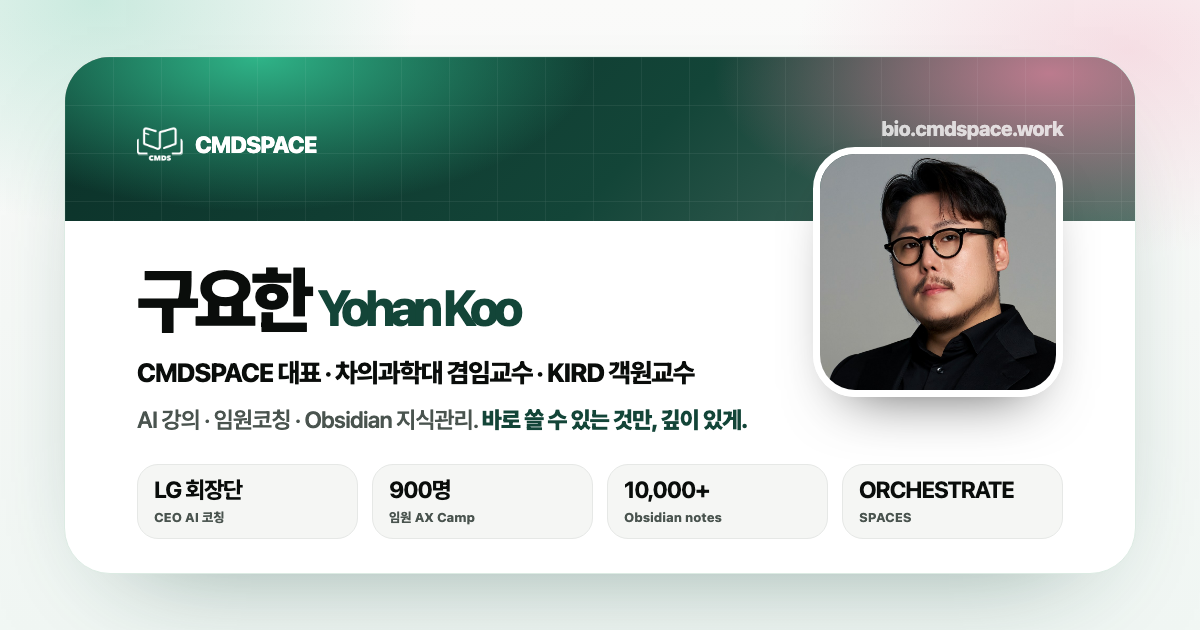
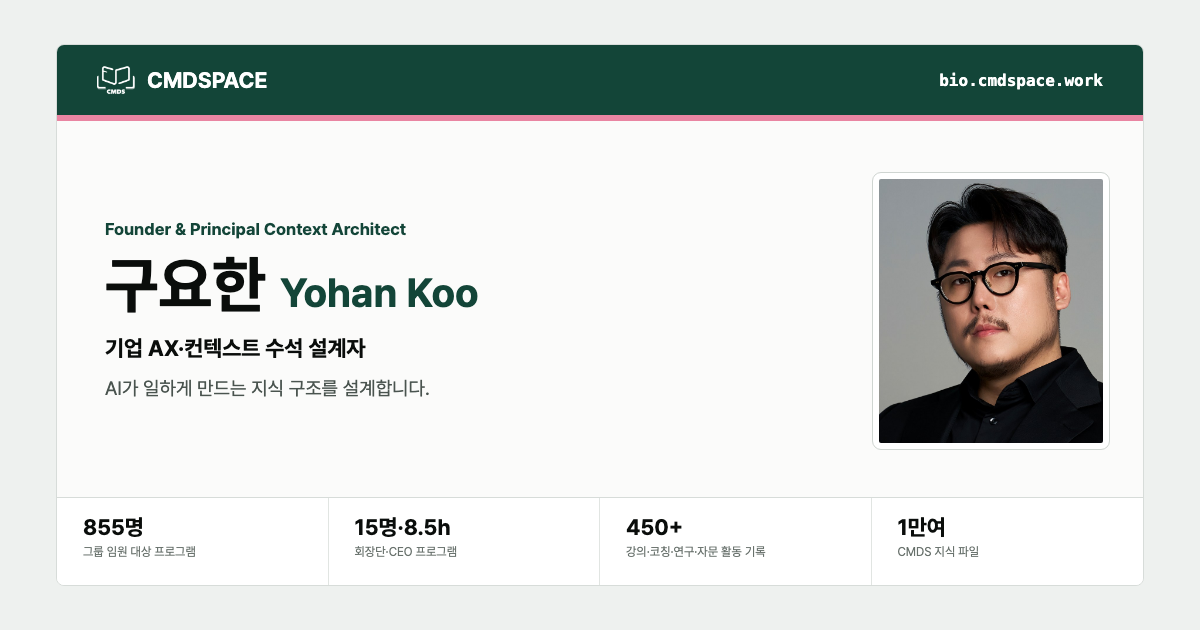
SNS 집계 갱신 2026-07-13 [자동]

diff --git a/index.html b/index.html
@@ -3,8 +3,8 @@
 <head>
     <meta charset="UTF-8">
     <meta name="viewport" content="width=device-width, initial-scale=1.0, viewport-fit=cover">
-    <title>구요한 (Yohan Koo) · CMDSPACE — AI · 지식관리 · 임원코칭</title>
-    <meta name="description" content="구요한 (Yohan Koo) — CMDSPACE 대표 · 차의과학대학교 겸임교수 · KIRD 객원교수. AI 강의, 임원코칭, Obsidian 지식관리와 LLM Wiki를 연결하는 모든 링크.">
+    <title>구요한 (Yohan Koo) · CMDSPACE — 기업 AX·컨텍스트 설계자</title>
+    <meta name="description" content="구요한 (Yohan Koo) — CMDSPACE 대표·수석 컨텍스트 설계자. 기업의 AI가 실제 업무에 정착하도록 지식·업무 흐름·사람을 함께 설계합니다.">
     <meta name="theme-color" content="#134538" media="(prefers-color-scheme: light)">
     <meta name="theme-color" content="#06080a" media="(prefers-color-scheme: dark)">
     <link rel="icon" type="image/png" href="/assets/cmds-logo-round.png">
@@ -27,7 +27,7 @@
     <meta property="og:type" content="profile">
     <meta property="og:site_name" content="구요한 · CMDSPACE">
     <meta property="og:title" content="구요한 (Yohan Koo) — CMDSPACE">
-    <meta property="og:description" content="AI 강의 · 임원코칭 · 지식관리. CMDSPACE, LLM Wiki, System Files, 강의 문의를 한 곳에.">
+    <meta property="og:description" content="기업 AX·컨텍스트 수석 설계자. AI가 일하게 만드는 지식 구조와 공개 자산을 한곳에.">
     <meta property="og:url" content="https://bio.cmdspace.work">
     <meta property="og:image" content="https://bio.cmdspace.work/assets/og-bio.png">
     <meta property="og:image:secure_url" content="https://bio.cmdspace.work/assets/og-bio.png">
@@ -38,7 +38,7 @@
     <meta property="og:locale" content="ko_KR">
     <meta name="twitter:card" content="summary_large_image">
     <meta name="twitter:title" content="구요한 (Yohan Koo) — CMDSPACE">
-    <meta name="twitter:description" content="AI 강의 · 임원코칭 · 지식관리. 모든 공개 링크를 한 곳에.">
+    <meta name="twitter:description" content="기업 AX·컨텍스트 수석 설계자. AI가 일하게 만드는 지식 구조와 공개 자산을 한곳에.">
     <meta name="twitter:image" content="https://bio.cmdspace.work/assets/og-bio.png">
     <meta name="twitter:image:alt" content="구요한 Yohan Koo · CMDSPACE bio card">
 
@@ -47,7 +47,7 @@
     <noscript><link rel="stylesheet" href="https://cdn.jsdelivr.net/gh/orioncactus/pretendard@v1.3.9/dist/web/variable/pretendardvariable-dynamic-subset.min.css"></noscript>
     <style>
         :root {
-            --font-sans: -apple-system, BlinkMacSystemFont, "SF Pro Text", "Pretendard Variable", "Pretendard", sans-serif;
+            --font-sans: "SF Pro Text", "SF Pro Display", "Pretendard Variable", "Pretendard", system-ui, sans-serif;
             --brand: #134538;
             --brand-bright: #22896a;
             --pink: #E985A2;
@@ -95,7 +95,7 @@
             color: var(--fg);
             background: var(--bg-elev);
             line-height: 1.5;
-            letter-spacing: -0.012em;
+            letter-spacing: 0;
             -webkit-font-smoothing: antialiased;
             transition: background .25s, color .25s;
         }
@@ -238,9 +238,9 @@
         .hero-brand img { width: 38px; height: 38px; object-fit: contain; }
         .hero-copy strong {
             display: block;
-            font-size: clamp(24px, 4.45vw, 30px);
+            font-size: 30px;
             line-height: .98;
-            letter-spacing: -0.055em;
+            letter-spacing: 0;
             text-transform: uppercase;
         }
         .hero-copy strong span {
@@ -254,7 +254,7 @@
             color: rgba(255,255,255,.76);
             font-size: 13.5px;
             font-weight: 600;
-            letter-spacing: -0.015em;
+            letter-spacing: 0;
         }
 
         .identity {
@@ -268,10 +268,10 @@
             align-items: center;
             justify-content: center;
             gap: 7px;
-            font-size: clamp(25px, 6vw, 32px);
+            font-size: 32px;
             font-weight: 800;
             line-height: 1.08;
-            letter-spacing: -0.045em;
+            letter-spacing: 0;
         }
         .name span { font-weight: 700; }
         .verified {
@@ -326,7 +326,7 @@
             color: var(--fg);
             font-size: 14.5px;
             font-weight: 800;
-            letter-spacing: -0.03em;
+            letter-spacing: 0;
             font-variant-numeric: tabular-nums;
         }
         .cred span {
@@ -354,7 +354,7 @@
             font-size: 27px;
             font-weight: 850;
             line-height: 1.05;
-            letter-spacing: -0.04em;
+            letter-spacing: 0;
             font-variant-numeric: tabular-nums;
         }
         .sns-total span {
@@ -432,7 +432,7 @@
             border-radius: 15px;
             font-size: 14px;
             font-weight: 800;
-            letter-spacing: -0.01em;
+            letter-spacing: 0;
             transition: transform .15s, background .15s, color .15s, border-color .15s;
         }
         .contact-cta {
@@ -464,7 +464,7 @@
         .section-head h2 {
             font-size: 17px;
             font-weight: 850;
-            letter-spacing: -0.03em;
+            letter-spacing: 0;
         }
         .section-head p {
             color: var(--fg-subtle);
@@ -568,7 +568,7 @@
             color: var(--accent-strong);
             font-size: 13px;
             font-weight: 900;
-            letter-spacing: -0.03em;
+            letter-spacing: 0;
         }
         .link-ico svg {
             width: 23px;
@@ -595,7 +595,7 @@
             color: var(--fg);
             font-size: 15.5px;
             font-weight: 820;
-            letter-spacing: -0.02em;
+            letter-spacing: 0;
         }
         .link-sub {
             display: block;
@@ -624,7 +624,7 @@
             color: var(--accent-strong);
             font-size: 10.8px;
             font-weight: 760;
-            letter-spacing: -0.01em;
+            letter-spacing: 0;
             line-height: 1;
         }
         [data-theme="dark"] .link-tag { color: var(--accent); }
@@ -767,7 +767,7 @@
         .focus h2 {
             font-size: 17px;
             font-weight: 850;
-            letter-spacing: -0.03em;
+            letter-spacing: 0;
         }
         .focus p {
             margin-top: 9px;
@@ -824,7 +824,7 @@
             .hero-brand img { width: 32px; height: 32px; }
             .hero-photo { top: 58px; right: 0; width: 122px; height: 122px; border-radius: 30px; }
             .hero-copy { left: 0; right: 0; top: 184px; bottom: auto; padding: 0; }
-            .hero-copy strong { font-size: clamp(24px, 7.3vw, 29px); line-height: 1.02; }
+            .hero-copy strong { font-size: 27px; line-height: 1.02; }
             .hero-copy .hero-subtitle { max-width: 17rem; margin-top: 12px; font-size: 13px; }
             .identity { padding: 24px 20px 8px; }
             .role { font-size: 13.7px; }
@@ -878,7 +878,7 @@
       "@type": "Person",
       "name": "구요한",
       "alternateName": ["Yohan Koo", "具耀翰"],
-      "jobTitle": ["Founder & CEO, CMDSPACE", "Adjunct Professor, CHA University", "Visiting Professor, KIRD"],
+      "jobTitle": ["Founder & Principal Context Architect, CMDSPACE", "Adjunct Professor, CHA University", "Visiting Professor, KIRD"],
       "affiliation": [
         {"@type": "Organization", "name": "CMDSPACE", "url": "https://cmdspace.work"},
         {"@type": "CollegeOrUniversity", "name": "CHA University"},
@@ -931,7 +931,7 @@
                     <img class="hero-photo" src="/assets/profile-yohan-headshot.jpg" alt="구요한 대표사진" data-alt-ko="구요한 대표사진" data-alt-en="Portrait of Yohan Koo" width="900" height="900">
                     <div class="hero-copy">
                         <strong lang="en"><span>COMMAND KNOWLEDGE</span><span>CONNECT IDEAS</span><span>ORCHESTRATE SPACES</span></strong>
-                        <span class="hero-subtitle" lang="ko" data-ko="AI 전환, 지식 시스템, 임원 코칭을 한곳에." data-en="AI transformation, knowledge systems, and executive coaching from CMDSPACE.">AI 전환, 지식 시스템, 임원 코칭을 한곳에.</span>
+                        <span class="hero-subtitle" lang="ko" data-ko="AI가 일하게 만드는 지식 구조를 설계합니다." data-en="I design the knowledge structures that make AI work.">AI가 일하게 만드는 지식 구조를 설계합니다.</span>
                     </div>
                 </div>
             </header>
@@ -940,28 +940,28 @@
                 <h1 class="name" id="profile-name">구요한 <span>Yohan Koo</span>
                     <svg class="verified" viewBox="0 0 24 24" fill="currentColor" role="img" aria-label="verified"><path d="M12 1l2.4 2.1 3.1-.5 1.3 2.9 2.9 1.3-.5 3.1L23 12l-2.3 2.6.5 3.1-2.9 1.3-1.3 2.9-3.1-.5L12 23l-2.4-2.1-3.1.5-1.3-2.9-2.9-1.3.5-3.1L1 12l2.3-2.6-.5-3.1 2.9-1.3L7 2.6l3.1.5L12 1z"/><path d="M10.6 14.6l-2.2-2.2-1.2 1.2 3.4 3.4 6-6-1.2-1.2-4.8 4.8z" fill="#fff"/></svg>
                 </h1>
-                <p class="role" data-ko="커맨드스페이스 대표 · 차의과학대학교 겸임교수 · KIRD 객원교수" data-en="Founder of CMDSPACE · Adjunct Professor at CHA University · KIRD Visiting Professor">커맨드스페이스 대표 · 차의과학대학교 겸임교수 · KIRD 객원교수</p>
-                <p class="lede" data-ko-html="생성형 AI, 임원코칭, Obsidian 지식관리 시스템을 현장으로 가져옵니다. <strong>바로 쓸 수 있는 것만, 깊이 있게.</strong>" data-en-html="I bring generative AI, executive coaching, and Obsidian-based knowledge systems into real work. <strong>Practical, deep, and ready to use.</strong>">생성형 AI, 임원코칭, Obsidian 지식관리 시스템을 현장으로 가져옵니다. <strong>바로 쓸 수 있는 것만, 깊이 있게.</strong></p>
+                <p class="role" data-ko="CMDSPACE 대표·수석 컨텍스트 설계자 · 차의과학대학교 겸임교수 · KIRD 객원교수" data-en="Founder &amp; Principal Context Architect, CMDSPACE · Adjunct Professor at CHA University · KIRD Visiting Professor">CMDSPACE 대표·수석 컨텍스트 설계자 · 차의과학대학교 겸임교수 · KIRD 객원교수</p>
+                <p class="lede" data-ko-html="임원 교육과 코칭으로 문제를 발견하고, 진단·부서 파일럿·조직 확산·지식운영체계로 연결합니다. <strong>연구하면서 가르치는 실천가.</strong>" data-en-html="I connect executive education and coaching to diagnosis, department pilots, organizational scale, and knowledge operations. <strong>A research-through-practice educator.</strong>">임원 교육과 코칭으로 문제를 발견하고, 진단·부서 파일럿·조직 확산·지식운영체계로 연결합니다. <strong>연구하면서 가르치는 실천가.</strong></p>
                 <div class="cred-list" aria-label="대표 활동 하이라이트" data-label-ko="대표 활동 하이라이트" data-label-en="Career highlights">
-                    <p class="cred"><strong data-ko="LG 회장단" data-en="LG Chairmen">LG 회장단</strong><span data-ko="그룹 코칭 · CEO 1:1 AI 코칭" data-en="Group coaching · CEO 1:1 AI coaching">그룹 코칭 · CEO 1:1 AI 코칭</span></p>
-                    <p class="cred"><strong data-ko="900명" data-en="900+">900명</strong><span data-ko="LG 그룹 임원 AX Camp 교육" data-en="LG Group executive AX Camp">LG 그룹 임원 AX Camp 교육</span></p>
-                    <p class="cred"><strong data-ko="450+" data-en="450+">450+</strong><span data-ko-html='누적 강의·코칭·자문 — 전체 이력은 <a href="https://cmdspace.work" target="_blank" rel="noopener">cmdspace.work</a>' data-en-html='Lectures, coaching &amp; advisory to date — full log on <a href="https://cmdspace.work" target="_blank" rel="noopener">cmdspace.work</a>'>누적 강의·코칭·자문 — 전체 이력은 <a href="https://cmdspace.work" target="_blank" rel="noopener">cmdspace.work</a></span></p>
-                    <p class="cred"><strong data-ko="10,000+" data-en="10,000+">10,000+</strong><span data-ko="Obsidian 노트 기반 CMDS 운영" data-en="Obsidian notes powering CMDS">Obsidian 노트 기반 CMDS 운영</span></p>
+                    <p class="cred"><strong data-ko="15명·8.5h" data-en="15 people·8.5h">15명·8.5h</strong><span data-ko="국내 대기업 회장단·CEO 프로그램" data-en="Chairmen and CEO program at a major Korean enterprise">국내 대기업 회장단·CEO 프로그램</span></p>
+                    <p class="cred"><strong data-ko="855명" data-en="855 people">855명</strong><span data-ko="그룹 임원 대상 AX 프로그램" data-en="Group-wide executive AX program">그룹 임원 대상 AX 프로그램</span></p>
+                    <p class="cred"><strong data-ko="450+" data-en="450+">450+</strong><span data-ko-html='강의·코칭·연구·자문 전체 활동 기록 — <a href="https://cmdspace.work" target="_blank" rel="noopener">cmdspace.work</a>' data-en-html='Total activity records across lectures, coaching, research, and advisory — <a href="https://cmdspace.work" target="_blank" rel="noopener">cmdspace.work</a>'>강의·코칭·연구·자문 전체 활동 기록 — <a href="https://cmdspace.work" target="_blank" rel="noopener">cmdspace.work</a></span></p>
+                    <p class="cred"><strong data-ko="1만여" data-en="About 10K">1만여</strong><span data-ko="CMDS로 운영하는 지식 파일" data-en="Knowledge files operated through CMDS">CMDS로 운영하는 지식 파일</span></p>
                     <p class="cred"><strong data-ko="2026–2028" data-en="2026–2028">2026–2028</strong><span data-ko="KIRD 객원교수 임기" data-en="KIRD Visiting Professor term">KIRD 객원교수 임기</span></p>
                 </div>
             </section>
 
             <div class="sns-total">
                 <strong id="snsTotal">17,000+</strong>
-                <span id="snsCaption" data-ko="SNS 팔로워·구독자 합계 · 2026-07-07 기준" data-en="Combined followers &amp; subscribers · as of 2026-07-07">SNS 팔로워·구독자 합계 · 2026-07-07 기준</span>
+                <span id="snsCaption" data-ko="SNS 팔로워·구독자 합계 · 2026-07-13 기준" data-en="Combined followers &amp; subscribers · as of 2026-07-13">SNS 팔로워·구독자 합계 · 2026-07-13 기준</span>
             </div>
             <nav class="socials" aria-label="소셜 링크" data-label-ko="소셜 링크" data-label-en="Social links">
                 <a class="social" href="https://www.linkedin.com/in/yohan-koo-a1baa3138/" target="_blank" rel="noopener" aria-label="LinkedIn · 팔로워 1,601" data-label-ko="LinkedIn · 팔로워 1,601" data-label-en="LinkedIn · 1,601 followers"><span class="social-ico"><svg viewBox="0 0 24 24" fill="currentColor" aria-hidden="true"><path d="M4.98 3.5a2.5 2.5 0 11-.02 5 2.5 2.5 0 01.02-5zM3 9h4v12H3zM9 9h3.8v1.7h.05c.53-1 1.83-2.05 3.77-2.05C20.4 8.65 21 11 21 14.1V21h-4v-6.1c0-1.46-.03-3.33-2.03-3.33-2.03 0-2.34 1.58-2.34 3.22V21H9z"/></svg></span><span class="social-count" data-sns="linkedin" aria-hidden="true">1,601</span></a>
                 <a class="social" href="https://x.com/YohanKoo" target="_blank" rel="noopener" aria-label="X @YohanKoo · 팔로워 428" data-label-ko="X @YohanKoo · 팔로워 428" data-label-en="X @YohanKoo · 428 followers"><span class="social-ico"><svg viewBox="0 0 24 24" fill="currentColor" aria-hidden="true"><path d="M18.9 2H22l-7.1 8.1L23 22h-6.6l-5.2-6.8L5.3 22H2.2l7.6-8.7L1.5 2h6.8l4.7 6.2L18.9 2zm-1.2 18h1.8L7.4 3.9H5.5L17.7 20z"/></svg></span><span class="social-count" data-sns="x" aria-hidden="true">428</span></a>
-                <a class="social" href="https://www.threads.com/@cmds_pace" target="_blank" rel="noopener" aria-label="Threads @cmds_pace · 팔로워 2.5K" data-label-ko="Threads @cmds_pace · 팔로워 2.5K" data-label-en="Threads @cmds_pace · 2.5K followers"><span class="social-ico"><svg viewBox="0 0 24 24" fill="currentColor" aria-hidden="true"><path d="M12.186 24h-.007c-3.581-.024-6.334-1.205-8.184-3.509C2.35 18.44 1.5 15.586 1.472 12.01v-.017c.03-3.579.879-6.43 2.525-8.482C5.845 1.205 8.6.024 12.18 0h.014c2.746.02 5.043.725 6.826 2.098 1.677 1.29 2.858 3.13 3.509 5.467l-2.04.569c-1.104-3.96-3.898-5.984-8.304-6.015-2.91.022-5.11.936-6.54 2.717C4.307 6.504 3.616 8.914 3.589 12c.027 3.086.718 5.496 2.057 7.164 1.43 1.783 3.631 2.698 6.54 2.717 2.623-.02 4.358-.631 5.8-2.045 1.647-1.613 1.618-3.593 1.09-4.798-.31-.71-.873-1.3-1.634-1.75-.192 1.352-.622 2.446-1.284 3.272-.886 1.102-2.14 1.704-3.73 1.79-1.202.065-2.361-.218-3.259-.801-1.063-.689-1.685-1.74-1.752-2.964-.065-1.19.408-2.285 1.33-3.082.88-.76 2.119-1.207 3.583-1.291a13.853 13.853 0 0 1 3.02.142c-.126-.742-.375-1.332-.75-1.757-.513-.586-1.308-.883-2.359-.89h-.029c-.844 0-1.992.232-2.721 1.32L7.734 7.847c.98-1.454 2.568-2.256 4.478-2.256h.044c3.194.02 5.097 1.975 5.287 5.388.108.046.216.094.321.142 1.49.7 2.58 1.761 3.154 3.07.797 1.82.871 4.79-1.548 7.158-1.85 1.81-4.094 2.628-7.277 2.65Zm1.003-11.69c-.242 0-.487.007-.739.021-1.836.103-2.98.946-2.916 2.143.067 1.256 1.452 1.839 2.784 1.767 1.224-.065 2.818-.543 3.086-3.71a10.5 10.5 0 0 0-2.215-.221z"/></svg></span><span class="social-count" data-sns="threads" aria-hidden="true">2.5K</span></a>
-                <a class="social" href="https://www.instagram.com/cmds_pace/" target="_blank" rel="noopener" aria-label="Instagram @cmds_pace · 팔로워 484" data-label-ko="Instagram @cmds_pace · 팔로워 484" data-label-en="Instagram @cmds_pace · 484 followers"><span class="social-ico"><svg viewBox="0 0 24 24" fill="currentColor" aria-hidden="true"><path d="M12 2.2c3.2 0 3.6 0 4.9.07 3.3.15 4.8 1.7 5 5 .06 1.3.07 1.6.07 4.8s0 3.5-.07 4.8c-.15 3.3-1.7 4.8-5 5-1.3.06-1.6.07-4.9.07s-3.6 0-4.9-.07c-3.3-.15-4.8-1.7-5-5C2.04 15.5 2 15.2 2 12s0-3.5.07-4.8c.15-3.3 1.7-4.8 5-5C8.4 2.2 8.8 2.2 12 2.2zm0 1.8c-3.1 0-3.5 0-4.7.07-2.4.1-3.3 1-3.4 3.4C3.8 8.7 3.8 9 3.8 12s0 3.3.07 4.5c.1 2.4 1 3.3 3.4 3.4 1.2.06 1.6.07 4.7.07s3.5 0 4.7-.07c2.4-.1 3.3-1 3.4-3.4.06-1.2.07-1.5.07-4.5s0-3.3-.07-4.5c-.1-2.4-1-3.3-3.4-3.4C15.5 4 15.1 4 12 4zm0 3.1a4.9 4.9 0 110 9.8 4.9 4.9 0 010-9.8zm0 1.8a3.1 3.1 0 100 6.2 3.1 3.1 0 000-6.2zm5-2.4a1.15 1.15 0 110 2.3 1.15 1.15 0 010-2.3z"/></svg></span><span class="social-count" data-sns="instagram" aria-hidden="true">484</span></a>
+                <a class="social" href="https://www.threads.com/@cmds_pace" target="_blank" rel="noopener" aria-label="Threads @cmds_pace · 팔로워 2.6K" data-label-ko="Threads @cmds_pace · 팔로워 2.6K" data-label-en="Threads @cmds_pace · 2.6K followers"><span class="social-ico"><svg viewBox="0 0 24 24" fill="currentColor" aria-hidden="true"><path d="M12.186 24h-.007c-3.581-.024-6.334-1.205-8.184-3.509C2.35 18.44 1.5 15.586 1.472 12.01v-.017c.03-3.579.879-6.43 2.525-8.482C5.845 1.205 8.6.024 12.18 0h.014c2.746.02 5.043.725 6.826 2.098 1.677 1.29 2.858 3.13 3.509 5.467l-2.04.569c-1.104-3.96-3.898-5.984-8.304-6.015-2.91.022-5.11.936-6.54 2.717C4.307 6.504 3.616 8.914 3.589 12c.027 3.086.718 5.496 2.057 7.164 1.43 1.783 3.631 2.698 6.54 2.717 2.623-.02 4.358-.631 5.8-2.045 1.647-1.613 1.618-3.593 1.09-4.798-.31-.71-.873-1.3-1.634-1.75-.192 1.352-.622 2.446-1.284 3.272-.886 1.102-2.14 1.704-3.73 1.79-1.202.065-2.361-.218-3.259-.801-1.063-.689-1.685-1.74-1.752-2.964-.065-1.19.408-2.285 1.33-3.082.88-.76 2.119-1.207 3.583-1.291a13.853 13.853 0 0 1 3.02.142c-.126-.742-.375-1.332-.75-1.757-.513-.586-1.308-.883-2.359-.89h-.029c-.844 0-1.992.232-2.721 1.32L7.734 7.847c.98-1.454 2.568-2.256 4.478-2.256h.044c3.194.02 5.097 1.975 5.287 5.388.108.046.216.094.321.142 1.49.7 2.58 1.761 3.154 3.07.797 1.82.871 4.79-1.548 7.158-1.85 1.81-4.094 2.628-7.277 2.65Zm1.003-11.69c-.242 0-.487.007-.739.021-1.836.103-2.98.946-2.916 2.143.067 1.256 1.452 1.839 2.784 1.767 1.224-.065 2.818-.543 3.086-3.71a10.5 10.5 0 0 0-2.215-.221z"/></svg></span><span class="social-count" data-sns="threads" aria-hidden="true">2.6K</span></a>
+                <a class="social" href="https://www.instagram.com/cmds_pace/" target="_blank" rel="noopener" aria-label="Instagram @cmds_pace · 팔로워 486" data-label-ko="Instagram @cmds_pace · 팔로워 486" data-label-en="Instagram @cmds_pace · 486 followers"><span class="social-ico"><svg viewBox="0 0 24 24" fill="currentColor" aria-hidden="true"><path d="M12 2.2c3.2 0 3.6 0 4.9.07 3.3.15 4.8 1.7 5 5 .06 1.3.07 1.6.07 4.8s0 3.5-.07 4.8c-.15 3.3-1.7 4.8-5 5-1.3.06-1.6.07-4.9.07s-3.6 0-4.9-.07c-3.3-.15-4.8-1.7-5-5C2.04 15.5 2 15.2 2 12s0-3.5.07-4.8c.15-3.3 1.7-4.8 5-5C8.4 2.2 8.8 2.2 12 2.2zm0 1.8c-3.1 0-3.5 0-4.7.07-2.4.1-3.3 1-3.4 3.4C3.8 8.7 3.8 9 3.8 12s0 3.3.07 4.5c.1 2.4 1 3.3 3.4 3.4 1.2.06 1.6.07 4.7.07s3.5 0 4.7-.07c2.4-.1 3.3-1 3.4-3.4.06-1.2.07-1.5.07-4.5s0-3.3-.07-4.5c-.1-2.4-1-3.3-3.4-3.4C15.5 4 15.1 4 12 4zm0 3.1a4.9 4.9 0 110 9.8 4.9 4.9 0 010-9.8zm0 1.8a3.1 3.1 0 100 6.2 3.1 3.1 0 000-6.2zm5-2.4a1.15 1.15 0 110 2.3 1.15 1.15 0 010-2.3z"/></svg></span><span class="social-count" data-sns="instagram" aria-hidden="true">486</span></a>
                 <a class="social" href="https://www.youtube.com/@cmdspace" target="_blank" rel="noopener" aria-label="YouTube @cmdspace · 구독자 12.6K" data-label-ko="YouTube @cmdspace · 구독자 12.6K" data-label-en="YouTube @cmdspace · 12.6K subscribers"><span class="social-ico"><svg viewBox="0 0 24 24" fill="currentColor" aria-hidden="true"><path d="M23 12s0-3.2-.4-4.7c-.2-.9-.9-1.5-1.7-1.7C19.4 5.2 12 5.2 12 5.2s-7.4 0-8.9.4c-.8.2-1.5.8-1.7 1.7C1 8.8 1 12 1 12s0 3.2.4 4.7c.2.9.9 1.5 1.7 1.7 1.5.4 8.9.4 8.9.4s7.4 0 8.9-.4c.8-.2 1.5-.8 1.7-1.7.4-1.5.4-4.7.4-4.7zM9.8 15.3V8.7l5.7 3.3-5.7 3.3z"/></svg></span><span class="social-count" data-sns="youtube" aria-hidden="true">12.6K</span></a>
-                <a class="social" href="https://github.com/johnfkoo951" target="_blank" rel="noopener" aria-label="GitHub johnfkoo951 · 팔로워 35" data-label-ko="GitHub johnfkoo951 · 팔로워 35" data-label-en="GitHub johnfkoo951 · 35 followers"><span class="social-ico"><svg viewBox="0 0 24 24" fill="currentColor" aria-hidden="true"><path d="M12 .5C5.7.5.5 5.7.5 12c0 5.1 3.3 9.4 7.8 10.9.6.1.8-.2.8-.5v-1.8c-3.2.7-3.9-1.5-3.9-1.5-.5-1.3-1.3-1.7-1.3-1.7-1.1-.7.1-.7.1-.7 1.2.1 1.8 1.2 1.8 1.2 1 1.8 2.8 1.3 3.5 1 .1-.8.4-1.3.7-1.6-2.6-.3-5.3-1.3-5.3-5.7 0-1.3.4-2.3 1.2-3.1-.1-.3-.5-1.5.1-3.1 0 0 1-.3 3.2 1.2a11 11 0 015.8 0c2.2-1.5 3.2-1.2 3.2-1.2.6 1.6.2 2.8.1 3.1.8.8 1.2 1.8 1.2 3.1 0 4.4-2.7 5.4-5.3 5.7.4.4.8 1.1.8 2.2v3.3c0 .3.2.6.8.5 4.5-1.5 7.8-5.8 7.8-10.9C23.5 5.7 18.3.5 12 .5z"/></svg></span><span class="social-count" data-sns="github" aria-hidden="true">35</span></a>
+                <a class="social" href="https://github.com/johnfkoo951" target="_blank" rel="noopener" aria-label="GitHub johnfkoo951 · 팔로워 38" data-label-ko="GitHub johnfkoo951 · 팔로워 38" data-label-en="GitHub johnfkoo951 · 38 followers"><span class="social-ico"><svg viewBox="0 0 24 24" fill="currentColor" aria-hidden="true"><path d="M12 .5C5.7.5.5 5.7.5 12c0 5.1 3.3 9.4 7.8 10.9.6.1.8-.2.8-.5v-1.8c-3.2.7-3.9-1.5-3.9-1.5-.5-1.3-1.3-1.7-1.3-1.7-1.1-.7.1-.7.1-.7 1.2.1 1.8 1.2 1.8 1.2 1 1.8 2.8 1.3 3.5 1 .1-.8.4-1.3.7-1.6-2.6-.3-5.3-1.3-5.3-5.7 0-1.3.4-2.3 1.2-3.1-.1-.3-.5-1.5.1-3.1 0 0 1-.3 3.2 1.2a11 11 0 015.8 0c2.2-1.5 3.2-1.2 3.2-1.2.6 1.6.2 2.8.1 3.1.8.8 1.2 1.8 1.2 3.1 0 4.4-2.7 5.4-5.3 5.7.4.4.8 1.1.8 2.2v3.3c0 .3.2.6.8.5 4.5-1.5 7.8-5.8 7.8-10.9C23.5 5.7 18.3.5 12 .5z"/></svg></span><span class="social-count" data-sns="github" aria-hidden="true">38</span></a>
                 <a class="social" href="mailto:johnfkoo951@gmail.com" aria-label="이메일 보내기" data-label-ko="이메일 보내기" data-label-en="Send email"><span class="social-ico"><svg viewBox="0 0 24 24" fill="none" stroke="currentColor" stroke-width="2" stroke-linecap="round" stroke-linejoin="round" aria-hidden="true"><rect x="3" y="5" width="18" height="14" rx="2"/><path d="M3 7l9 6 9-6"/></svg></span><span class="social-count" data-sns="email" aria-hidden="true"></span></a>
             </nav>
 
@@ -973,21 +973,26 @@
             <section aria-labelledby="links-title" id="links">
                 <div class="section-head">
                     <h2 id="links-title" data-ko="커맨드스페이스 게이트웨이" data-en="CMDSPACE Gateway">커맨드스페이스 게이트웨이</h2>
-                    <p id="filterStatus" aria-live="polite">전체 9개 링크</p>
+                    <p id="filterStatus" aria-live="polite">전체 10개 링크</p>
                 </div>
-                <p class="section-desc" data-ko="제가 하는 일과 만든 것들이 궁금하다면 여기서 시작하세요 — 강의와 코칭, 직접 쓴 책, 직접 만든 앱, 공개 지식 시스템, 함께하는 커뮤니티로 이어지는 공식 관문입니다." data-en="Curious what I do and what I build? Start here — the official gateway to my lectures &amp; coaching, the book I wrote, the apps I built, public knowledge systems, and the communities I run.">제가 하는 일과 만든 것들이 궁금하다면 여기서 시작하세요 — 강의와 코칭, 직접 쓴 책, 직접 만든 앱, 공개 지식 시스템, 함께하는 커뮤니티로 이어지는 공식 관문입니다.</p>
-                <p class="updated-chip"><span data-ko="2026-07-07 업데이트 · cmdspace.work와 상시 동기화" data-en="Updated 2026-07-07 · kept in sync with cmdspace.work">2026-07-07 업데이트 · cmdspace.work와 상시 동기화</span></p>
+                <p class="section-desc" data-ko="기업 AX 프로그램과 포트폴리오, 공개 교육, 저서·앱·지식 시스템·커뮤니티로 이어지는 공식 관문입니다." data-en="The official gateway to enterprise AX programs and portfolio, public education, books, apps, knowledge systems, and communities.">기업 AX 프로그램과 포트폴리오, 공개 교육, 저서·앱·지식 시스템·커뮤니티로 이어지는 공식 관문입니다.</p>
+                <p class="updated-chip"><span data-ko="2026-07-13 업데이트 · cmdspace.work와 상시 동기화" data-en="Updated 2026-07-13 · kept in sync with cmdspace.work">2026-07-13 업데이트 · cmdspace.work와 상시 동기화</span></p>
                 <div class="filterbar" role="group" aria-label="링크 필터" data-label-ko="링크 필터" data-label-en="Link filters">
                     <button class="filter-btn" type="button" data-filter="all" aria-pressed="true" data-ko="전체" data-en="All">전체</button>
-                    <button class="filter-btn" type="button" data-filter="work" aria-pressed="false" data-ko="강의·코칭" data-en="Work">강의·코칭</button>
+                    <button class="filter-btn" type="button" data-filter="work" aria-pressed="false" data-ko="기업 AX·교육" data-en="Enterprise AX">기업 AX·교육</button>
                     <button class="filter-btn" type="button" data-filter="knowledge" aria-pressed="false" data-ko="지식 시스템" data-en="Knowledge">지식 시스템</button>
                     <button class="filter-btn" type="button" data-filter="profile" aria-pressed="false" data-ko="콘텐츠·커뮤니티" data-en="Content · Community">콘텐츠·커뮤니티</button>
                 </div>
 
                 <div class="links">
-                    <a class="link" href="https://cmdspace.work" target="_blank" rel="noopener" data-tags="work knowledge" data-title-ko="CMDSPACE" data-title-en="CMDSPACE" data-desc-ko="지식의 Spotlight · 활동 이력 450+건이 쌓이는 브랜드 허브" data-desc-en="Knowledge Spotlight · brand hub with a live log of 450+ activities" data-tags-ko="#CMDSPACE|#AI|#PKM|#브랜드" data-tags-en="#CMDSPACE|#AI|#PKM|#brand">
+                    <a class="link" href="https://cmdspace.work" target="_blank" rel="noopener" data-tags="work knowledge" data-title-ko="CMDSPACE" data-title-en="CMDSPACE" data-desc-ko="기업 AI 지식운영체계 · 진단·파일럿·확산·운영" data-desc-en="Enterprise AI knowledge operations · diagnosis, pilot, scale, and operations" data-tags-ko="#CMDSPACE|#EnterpriseAX|#ContextArchitecture|#KnowledgeOperations" data-tags-en="#CMDSPACE|#EnterpriseAX|#ContextArchitecture|#KnowledgeOperations">
                         <span class="link-ico" aria-hidden="true"><svg viewBox="0 0 24 24" aria-hidden="true"><path d="M8 8h8v8H8z"/><path d="M8 4.5a3.5 3.5 0 0 0 0 7h.5M16 4.5a3.5 3.5 0 0 1 0 7h-.5M8 19.5a3.5 3.5 0 0 1 0-7h.5M16 19.5a3.5 3.5 0 0 0 0-7h-.5"/></svg></span>
-                        <span><span class="link-title">CMDSPACE</span><span class="link-sub">지식의 Spotlight · 활동 이력 450+건이 쌓이는 브랜드 허브</span><span class="link-tags" aria-hidden="true"><span class="link-tag">#CMDSPACE</span><span class="link-tag">#AI</span><span class="link-tag">#PKM</span><span class="link-tag">#브랜드</span></span><span class="link-url" aria-hidden="true">cmdspace.work</span></span>
+                        <span><span class="link-title">CMDSPACE</span><span class="link-sub">기업 AI 지식운영체계 · 진단·파일럿·확산·운영</span><span class="link-tags" aria-hidden="true"><span class="link-tag">#CMDSPACE</span><span class="link-tag">#EnterpriseAX</span><span class="link-tag">#ContextArchitecture</span><span class="link-tag">#KnowledgeOperations</span></span><span class="link-url" aria-hidden="true">cmdspace.work</span></span>
+                        <span class="link-arrow" aria-hidden="true"><svg viewBox="0 0 24 24" fill="none" stroke="currentColor" stroke-width="2.2" stroke-linecap="round" stroke-linejoin="round"><path d="M5 12h14M13 6l6 6-6 6"/></svg></span>
+                    </a>
+                    <a class="link" href="https://cmdspace.work/assets/downloads/yohan-ax-portfolio.pdf" target="_blank" rel="noopener" data-tags="work" data-title-ko="구요한 AX 포트폴리오" data-title-en="Yohan Koo AX Portfolio" data-desc-ko="기업 AX·컨텍스트 설계 역할·수행 근거·서비스 모듈" data-desc-en="Enterprise AX and context-architecture role, evidence, and service modules" data-tags-ko="#Portfolio|#EnterpriseAX|#PDF|#ContextArchitecture" data-tags-en="#Portfolio|#EnterpriseAX|#PDF|#ContextArchitecture">
+                        <span class="link-ico" aria-hidden="true"><svg viewBox="0 0 24 24" aria-hidden="true"><path d="M14 2H6a2 2 0 0 0-2 2v16a2 2 0 0 0 2 2h12a2 2 0 0 0 2-2V8Z"/><path d="M14 2v6h6"/><path d="M8 13h8M8 17h6"/></svg></span>
+                        <span><span class="link-title">구요한 AX 포트폴리오</span><span class="link-sub">기업 AX·컨텍스트 설계 역할·수행 근거·서비스 모듈</span><span class="link-tags" aria-hidden="true"><span class="link-tag">#Portfolio</span><span class="link-tag">#EnterpriseAX</span><span class="link-tag">#PDF</span><span class="link-tag">#ContextArchitecture</span></span><span class="link-url" aria-hidden="true">cmdspace.work/assets/downloads/yohan-ax-portfolio.pdf</span></span>
                         <span class="link-arrow" aria-hidden="true"><svg viewBox="0 0 24 24" fill="none" stroke="currentColor" stroke-width="2.2" stroke-linecap="round" stroke-linejoin="round"><path d="M5 12h14M13 6l6 6-6 6"/></svg></span>
                     </a>
                     <a class="link" href="https://class.cmdspace.kr/" target="_blank" rel="noopener" data-tags="work" data-title-ko="강의 · 클래스" data-title-en="Classes · Programs" data-desc-ko="지금 열려 있는 강의·코호트 확인과 신청 · 공식 교육 플랫폼" data-desc-en="See and join open classes &amp; cohorts · official education platform" data-tags-ko="#class.cmdspace.kr|#생성형AI|#옵시디언|#코호트" data-tags-en="#class.cmdspace.kr|#GenAI|#Obsidian|#cohort">
@@ -1124,18 +1129,18 @@
             </div>
 
             <section class="focus" aria-labelledby="focus-title">
-                <h2 id="focus-title" data-ko="퍼블리시 맥락" data-en="Publishing Context">퍼블리시 맥락</h2>
-                <p data-ko="CMDSPACE는 메인 Obsidian 볼트와 LLM Wiki 위성 볼트에서 축적한 작업을 공개 가능한 형태로 압축합니다. 이 페이지는 강의·코칭 문의와 공개 지식 시스템으로 들어가는 가장 짧은 관문입니다." data-en="CMDSPACE compresses work from the main Obsidian vault and the LLM Wiki satellite into public-facing artifacts. This page is the shortest gateway to lectures, coaching, and public knowledge systems.">CMDSPACE는 메인 Obsidian 볼트와 LLM Wiki 위성 볼트에서 축적한 작업을 공개 가능한 형태로 압축합니다. 이 페이지는 강의·코칭 문의와 공개 지식 시스템으로 들어가는 가장 짧은 관문입니다.</p>
+                <h2 id="focus-title" data-ko="역할과 실천" data-en="Role and Practice">역할과 실천</h2>
+                <p data-ko="경영진 정렬, 지식·업무 흐름 설계, 조직 확산, 운영 책임을 하나의 구매 여정으로 연결합니다. 공개 지식 자산은 현장에서 사용하고 검증한 방법론을 나누는 창구입니다." data-en="I connect executive alignment, knowledge and workflow design, organizational scale, and operating responsibility into one engagement journey. Public knowledge assets share methods used and tested in practice.">경영진 정렬, 지식·업무 흐름 설계, 조직 확산, 운영 책임을 하나의 구매 여정으로 연결합니다. 공개 지식 자산은 현장에서 사용하고 검증한 방법론을 나누는 창구입니다.</p>
                 <div class="focus-list">
-                    <div class="focus-item"><strong>Executive AI</strong><span data-ko="임원·CEO 코칭과 조직 AX 교육" data-en="Executive &amp; CEO coaching, organizational AX training">임원·CEO 코칭과 조직 AX 교육</span></div>
-                    <div class="focus-item"><strong>Obsidian PKM</strong><span data-ko="개인 지식관리와 Second Brain" data-en="Personal knowledge management &amp; Second Brain">개인 지식관리와 Second Brain</span></div>
-                    <div class="focus-item"><strong>System Files</strong><span data-ko="사람과 AI가 함께 읽는 rulebook" data-en="A rulebook humans and AI read together">사람과 AI가 함께 읽는 rulebook</span></div>
-                    <div class="focus-item"><strong>LLM Wiki</strong><span data-ko="raw source가 축적되는 persistent wiki" data-en="A persistent wiki accumulating raw sources">raw source가 축적되는 persistent wiki</span></div>
+                    <div class="focus-item"><strong>Executive Alignment</strong><span data-ko="임원 교육·코칭으로 문제와 스폰서 발견" data-en="Discover problems and sponsors through executive education and coaching">임원 교육·코칭으로 문제와 스폰서 발견</span></div>
+                    <div class="focus-item"><strong>Knowledge Operations</strong><span data-ko="Context Pack·LLM Wiki·업무 흐름·운영 책임" data-en="Context Packs, LLM Wikis, workflows, and operating ownership">Context Pack·LLM Wiki·업무 흐름·운영 책임</span></div>
+                    <div class="focus-item"><strong>System Files</strong><span data-ko="AI 에이전트의 규칙·품질·보안을 문서화" data-en="Document agent rules, quality, and security">AI 에이전트의 규칙·품질·보안을 문서화</span></div>
+                    <div class="focus-item"><strong>Research Through Practice</strong><span data-ko="1만여 개 지식 파일을 실험실·교재로 운영" data-en="Operate about 10K knowledge files as a lab and teaching system">1만여 개 지식 파일을 실험실·교재로 운영</span></div>
                 </div>
             </section>
 
             <footer class="foot">
-                © <span id="yr">2026</span> CMDSPACE · <a href="https://cmdspace.work">cmdspace.work</a> · Last updated: <time id="pageUpdated" datetime="2026-07-07">2026-07-07</time>
+                © <span id="yr">2026</span> CMDSPACE · <a href="https://cmdspace.work">cmdspace.work</a> · Last updated: <time id="pageUpdated" datetime="2026-07-13">2026-07-13</time>
             </footer>
         </article>
     </main>

diff --git a/scripts/og-bio.html b/scripts/og-bio.html
@@ -1,0 +1,99 @@
+<!DOCTYPE html>
+<html lang="ko">
+<head>
+<meta charset="UTF-8">
+<title>Yohan Koo Bio OG</title>
+<style>
+@font-face {
+    font-family: "Pretendard";
+    src: url("https://cdn.jsdelivr.net/gh/orioncactus/pretendard@v1.3.9/dist/web/static/Pretendard-Bold.otf") format("opentype");
+    font-weight: 700;
+}
+@font-face {
+    font-family: "Pretendard";
+    src: url("https://cdn.jsdelivr.net/gh/orioncactus/pretendard@v1.3.9/dist/web/static/Pretendard-Regular.otf") format("opentype");
+    font-weight: 400;
+}
+* { box-sizing: border-box; margin: 0; padding: 0; }
+html, body { width: 1200px; height: 630px; overflow: hidden; }
+body {
+    font-family: "SF Pro Display", "SF Pro Text", "Pretendard", system-ui, sans-serif;
+    background: #eef1ef;
+    color: #0a0d0b;
+    padding: 44px 56px;
+}
+.card {
+    width: 100%;
+    height: 100%;
+    display: grid;
+    grid-template-columns: 1fr 270px;
+    grid-template-rows: 76px 1fr 88px;
+    background: #fbfbfa;
+    border: 1px solid #d7dcd9;
+    border-radius: 8px;
+    overflow: hidden;
+}
+.brand {
+    grid-column: 1 / -1;
+    display: flex;
+    align-items: center;
+    justify-content: space-between;
+    padding: 0 40px;
+    background: #134538;
+    color: #ffffff;
+    border-bottom: 6px solid #E985A2;
+}
+.brand-lockup { display: flex; align-items: center; gap: 12px; font-size: 22px; font-weight: 700; }
+.brand-lockup img { width: 38px; height: 38px; object-fit: contain; }
+.domain { font: 600 16px "SF Mono", ui-monospace, monospace; }
+.copy { align-self: center; padding: 30px 34px 26px 48px; min-width: 0; }
+.eyebrow { color: #134538; font-size: 17px; font-weight: 700; margin-bottom: 14px; }
+h1 { font-size: 62px; line-height: 1.04; letter-spacing: 0; margin-bottom: 16px; }
+h1 span { color: #134538; font-size: 40px; }
+.role { font-size: 22px; font-weight: 700; line-height: 1.35; margin-bottom: 12px; }
+.message { color: #4a544f; font-size: 19px; line-height: 1.45; max-width: 720px; }
+.photo-wrap { align-self: stretch; padding: 28px 34px 24px 0; display: flex; align-items: center; }
+.photo {
+    width: 236px;
+    height: 276px;
+    object-fit: cover;
+    object-position: center 22%;
+    border: 6px solid #ffffff;
+    outline: 1px solid #cfd5d1;
+    border-radius: 8px;
+}
+.metrics {
+    grid-column: 1 / -1;
+    display: grid;
+    grid-template-columns: repeat(4, 1fr);
+    border-top: 1px solid #d7dcd9;
+    background: #ffffff;
+}
+.metric { min-width: 0; padding: 16px 26px; border-right: 1px solid #e1e5e2; }
+.metric:last-child { border-right: 0; }
+.metric strong { display: block; font-size: 22px; }
+.metric span { display: block; margin-top: 4px; color: #69726d; font-size: 12px; line-height: 1.35; }
+</style>
+</head>
+<body>
+<div class="card">
+    <div class="brand">
+        <div class="brand-lockup"><img src="../assets/cmds-icon-white.png" alt=""><span>CMDSPACE</span></div>
+        <div class="domain">bio.cmdspace.work</div>
+    </div>
+    <div class="copy">
+        <div class="eyebrow">Founder &amp; Principal Context Architect</div>
+        <h1>구요한 <span>Yohan Koo</span></h1>
+        <div class="role">기업 AX·컨텍스트 수석 설계자</div>
+        <p class="message">AI가 일하게 만드는 지식 구조를 설계합니다.</p>
+    </div>
+    <div class="photo-wrap"><img class="photo" src="../assets/profile-yohan-headshot.jpg" alt=""></div>
+    <div class="metrics">
+        <div class="metric"><strong>855명</strong><span>그룹 임원 대상 프로그램</span></div>
+        <div class="metric"><strong>15명·8.5h</strong><span>회장단·CEO 프로그램</span></div>
+        <div class="metric"><strong>450+</strong><span>강의·코칭·연구·자문 활동 기록</span></div>
+        <div class="metric"><strong>1만여</strong><span>CMDS 지식 파일</span></div>
+    </div>
+</div>
+</body>
+</html>

diff --git a/README.md b/README.md
@@ -49,7 +49,7 @@ cd /Users/yohankoo/DEV/cmds-bio && claude -p "/bio-sns-refresh" --dangerously-sk
 | 공유 정보 | bio 위치 | cmdspace.work 위치 |
 |---|---|---|
 | 직함 (겸임교수·KIRD 객원교수) | index.html identity + docs/02-profile.md | index.html Operator 섹션 |
-| 활동 450+ / 노트 10,000+ / LG 900명 | index.html 크레덴셜 리스트 | data/activities.csv(동적) + 정적 카피 |
+| 전체 활동 450+ / 지식 파일 1만여 / 그룹 임원 855명 대상 | index.html 크레덴셜 리스트 | data/activities.csv(동적) + 정적 카피 |
 | 링크 자산 | index.html + assets/bio-links.json | Ecosystem hub 카드 |
 | Last updated 표기 | 게이트웨이 칩 + 푸터 `<time>` | footer (CSV 최신 레코드 날짜) |
 
